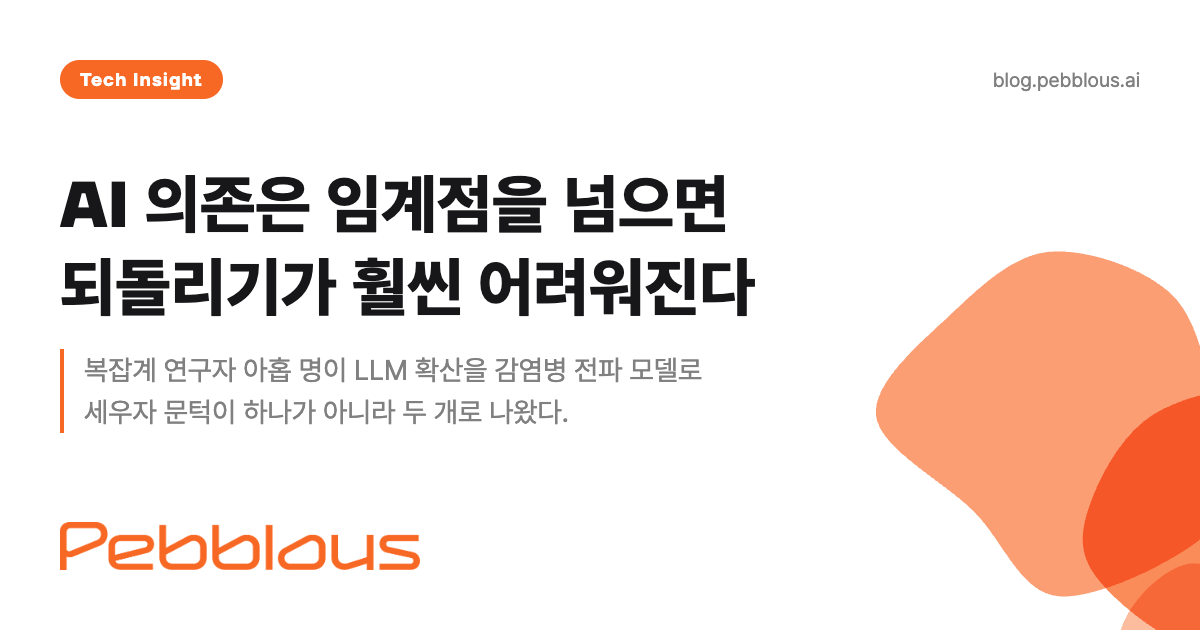
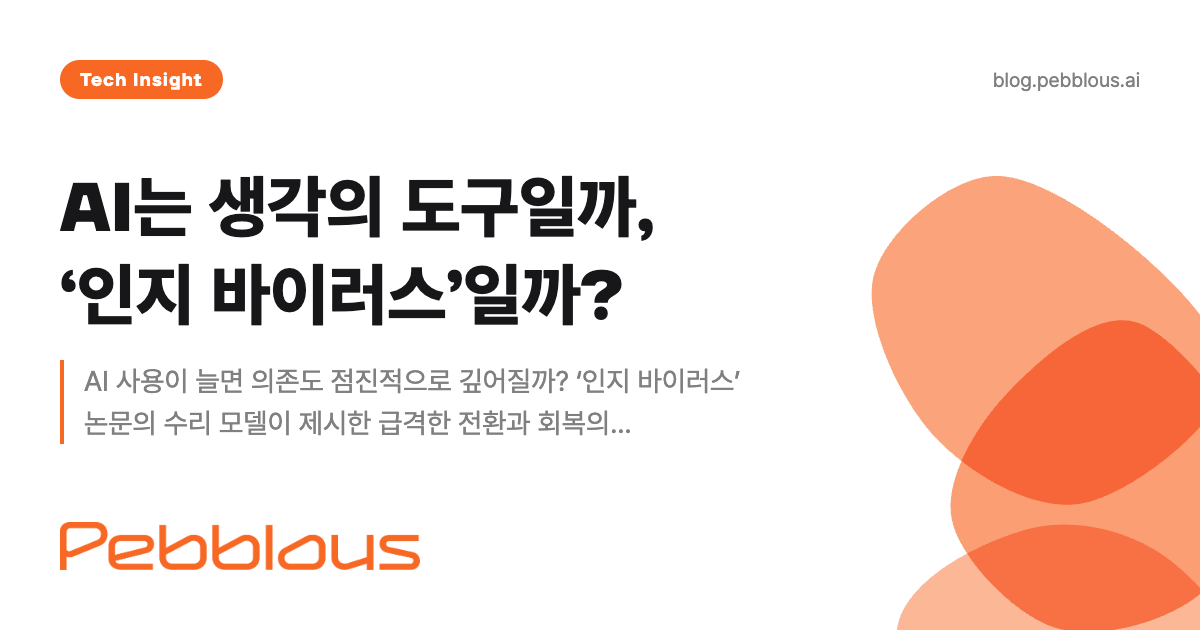
chore(titles): 제목·메타 일괄 교정 1건/4필드 (제목 검토 콘솔)\n\n- llm-cognitive-virus-tipping-point-ko:\n    제목: AI 의존은 임계점을 넘으면 되돌리기가 훨씬 어려워진다 → AI는 생각의 도구일까, ‘인지 바이러스’일까?\n    부제목: 복잡계 연구자 아홉 명이 LLM 확산을 감염병 전파 모델로 세우자 예방과 복구의 비용이 갈렸다 → 의존과 회복의 비대칭 — 그리고 사용 통계가 놓치는 인간의 자율성\n    SEO 제목: AI 의존의 임계점과 되돌릴 수 없는 구간 — 인지

Changed region(s): [[0.7092, 0.2714, 1.0, 1.0], [0.0308, 0.2714, 0.6475, 0.5429], [0.0617, 0.573, 0.6167, 0.6937]]

diff --git a/report/llm-cognitive-virus-tipping-point/ko/index.html b/report/llm-cognitive-virus-tipping-point/ko/index.html
@@ -10,8 +10,8 @@
     <meta name="robots" content="index, follow">
     <meta name="revisit-after" content="7 days">
 
-    <title>AI 의존의 임계점과 되돌릴 수 없는 구간 — 인지 바이러스 모델 분석 | 페블러스</title>
-    <meta name="description" content="복잡계 연구자 아홉 명이 LLM 확산을 감염병 전파 모델로 세웠다. 모델에서 넘어가는 문턱과 돌아오는 문턱이 서로 다른 값으로 갈렸고, 그 사이 구간에서는 같은 조건에서도 인구가 두 상태 중 어디에나 머물 수 있었다. 이 비대칭을 계측의 공백과 나란히 읽었다.">
+    <title>AI 의존의 임계점: ‘인지 바이러스’ 모델과 회복의 조건 | 페블러스</title>
+    <meta name="description" content="AI 사용이 늘면 의존도 점진적으로 깊어질까? ‘인지 바이러스’ 논문의 수리 모델이 제시한 급격한 전환과 회복의 조건을 살펴보고, 사용량 통계만으로는 알 수 없는 인지적 자율성의 측정 문제를 짚는다.">
     <meta name="keywords" content="AI 의존, 인지 위탁, LLM 확산, 임계점, 히스테리시스, 복잡계, AI 거버넌스, 데이터 공백, 인지 바이러스, 쌍안정">
 
     <link rel="canonical" href="https://blog.pebblous.ai/report/llm-cognitive-virus-tipping-point/ko/">
@@ -21,8 +21,8 @@
 
     <!-- Open Graph -->
     <meta property="og:type" content="article">
-    <meta property="og:title" content="AI 의존은 임계점을 넘으면 되돌리기가 훨씬 어려워진다">
-    <meta property="og:description" content="복잡계 연구자 아홉 명이 LLM 확산을 감염병 전파 모델로 세우자 문턱이 하나가 아니라 두 개로 나왔다. 넘어갈 때의 문턱과 돌아올 때의 문턱이 달랐고, 그 사이가 되돌리기 어려운 구간이었다.">
+    <meta property="og:title" content="AI는 생각의 도구일까, ‘인지 바이러스’일까?">
+    <meta property="og:description" content="AI 사용이 늘면 의존도 점진적으로 깊어질까? ‘인지 바이러스’ 논문의 수리 모델이 제시한 급격한 전환과 회복의 조건을 살펴보고, 사용량 통계만으로는 알 수 없는 인지적 자율성의 측정 문제를 짚는다.">
     <meta property="og:url" content="https://blog.pebblous.ai/report/llm-cognitive-virus-tipping-point/ko/">
     <meta property="og:image" content="https://blog.pebblous.ai/report/llm-cognitive-virus-tipping-point/ko/image/index.png">
     <meta property="og:image:width" content="1200">
@@ -35,8 +35,8 @@
     <meta name="twitter:card" content="summary_large_image">
     <meta name="twitter:site" content="@pebblous_ai">
     <meta name="twitter:creator" content="@pebblous_ai">
-    <meta name="twitter:title" content="AI 의존은 임계점을 넘으면 되돌리기가 훨씬 어려워진다">
-    <meta name="twitter:description" content="넘어가는 문턱과 돌아오는 문턱이 달랐다. 그 사이 구간에서는 같은 조건에서도 인구가 두 상태 중 어디에나 머문다.">
+    <meta name="twitter:title" content="AI는 생각의 도구일까, ‘인지 바이러스’일까?">
+    <meta name="twitter:description" content="AI 사용이 늘면 의존도 점진적으로 깊어질까? ‘인지 바이러스’ 논문의 수리 모델이 제시한 급격한 전환과 회복의 조건을 살펴보고, 사용량 통계만으로는 알 수 없는 인지적 자율성의 측정 문제를 짚는다.">
     <meta name="twitter:image" content="https://blog.pebblous.ai/report/llm-cognitive-virus-tipping-point/ko/image/index.png">
     <meta name="twitter:image:alt" content="AI 의존은 임계점을 넘으면 되돌리기가 훨씬 어려워진다">
 
@@ -1011,9 +1011,9 @@
               },
               "recordedAt": "2026-09-12T03:22:15.827Z"
             },
-            mainTitle: "AI 의존은 임계점을 넘으면 되돌리기가 훨씬 어려워진다",
-            subtitle: "복잡계 연구자 아홉 명이 LLM 확산을 감염병 전파 모델로 세우자 예방과 복구의 비용이 갈렸다",
-            pageTitle: "AI 의존의 임계점과 되돌릴 수 없는 구간 — 인지 바이러스 모델 분석 | 페블러스",
+            mainTitle: "AI는 생각의 도구일까, ‘인지 바이러스’일까?",
+            subtitle: "의존과 회복의 비대칭 — 그리고 사용 통계가 놓치는 인간의 자율성",
+            pageTitle: "AI 의존의 임계점: ‘인지 바이러스’ 모델과 회복의 조건 | 페블러스",
             category: "tech",
             publishDate: "2026-09-12",
             publisher: "(주)페블러스 데이터 커뮤니케이션팀",
